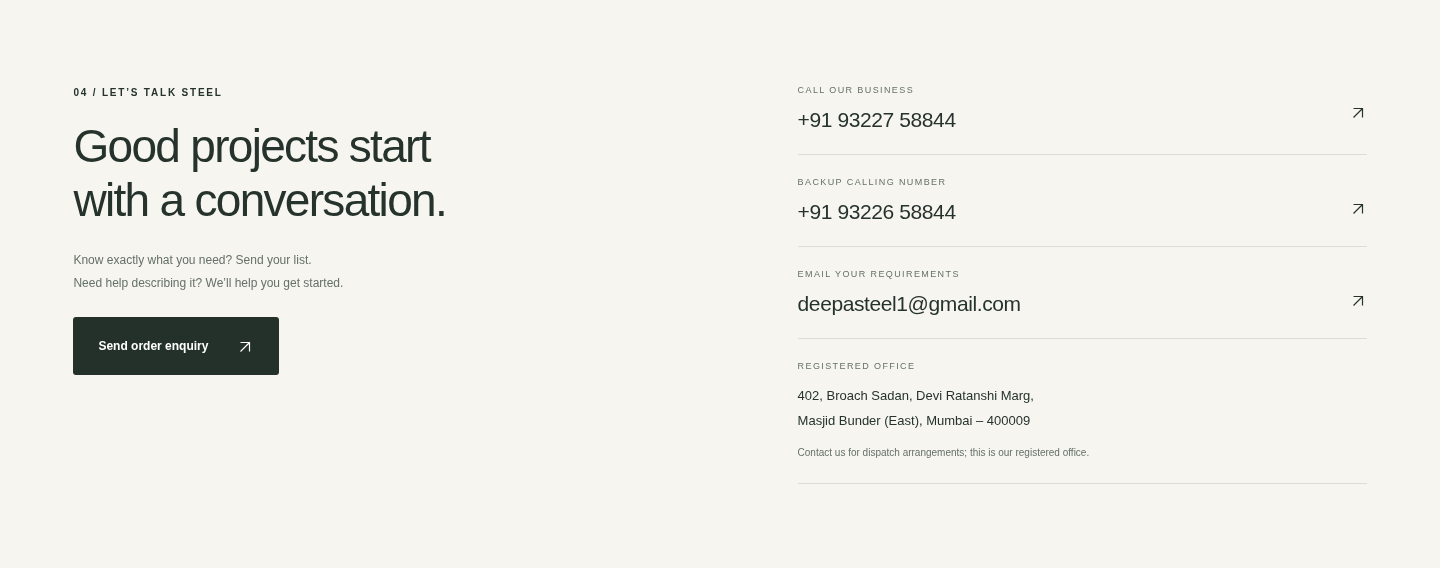
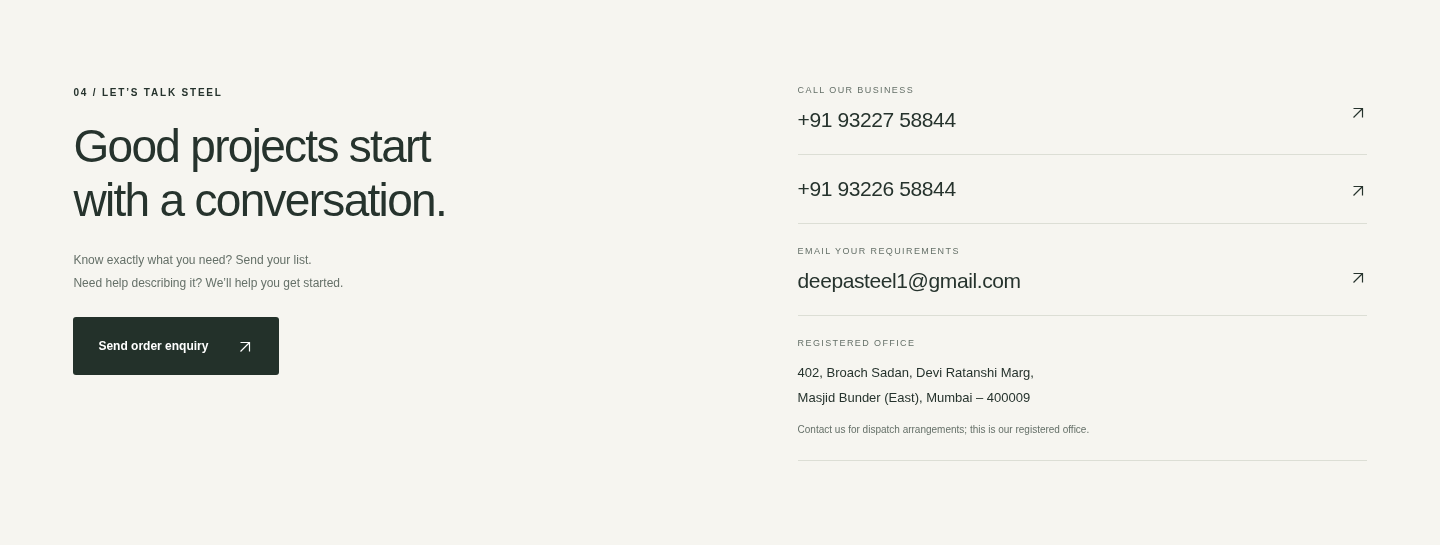
Present both phone numbers as business contacts without backup labels

diff --git a/preview/Deepa-Steel-Preview.html b/preview/Deepa-Steel-Preview.html
@@ -23,6 +23,8 @@ dialog{border:1px solid var(--line);border-radius:8px;background:var(--paper);co
 
 .arrow-icon{display:inline-block;vertical-align:middle;flex-shrink:0}.trust-strip>div>span .arrow-icon{width:26px;height:26px}.announcement .arrow-icon{width:11px;height:11px}.dialog-header{position:sticky;top:0;z-index:3;background:var(--paper)}
 
+.contact-details>a.business-phone-secondary .contact-arrow{top:22px}
+
 .review-preview-banner{padding:12px 5%;background:#fff0c3;color:#26332d;font:13px/1.6 Arial,sans-serif;text-align:center}.review-preview-banner strong{margin-right:8px}.preview-dialog-note{font:11px/1.5 Arial,sans-serif;margin:8px 0 0;color:#65542e}.header{position:relative}@media(max-width:850px){#navigation{top:100%}}</style>
   
 </head>
@@ -49,15 +51,15 @@ dialog{border:1px solid var(--line);border-radius:8px;background:var(--paper);co
     <section class="about-section section" id="about"><div class="about-art" aria-hidden="true"><div class="about-ds">ds</div><span>MUMBAI · INDIA</span><div class="about-line"></div><p>THE MATERIAL BEHIND<br>YOUR NEXT MILESTONE.</p></div><div class="about-copy"><p class="eyebrow">02 / MEET DEEPA STEEL</p><h2>Your requirements.<br>Our commitment.</h2><p>Based in Mumbai, Deepa Steel supplies iron and steel to builders and industrial developers across India.</p><p>We purchase ready-made material directly from manufacturers against customer requirements and arrange transport. Our business owners prepare quotations, giving you a direct conversation about your order.</p><div class="about-detail"><span>One order, a complete requirement.</span><p>Combine structural sections, plates, bars and pipes to meet the minimum order quantity.</p></div><a class="text-link" href="#contact">Let’s talk about your project <span aria-hidden="true"><svg class="arrow-icon" viewBox="0 0 24 24" width="18" height="18" fill="none" stroke="currentColor" stroke-width="1.6" aria-hidden="true"><path d="M6 18 18 6M6 6h12v12"/></svg></span></a></div></section>
     <section class="section order-section" id="how-to-order"><div class="section-heading"><div><p class="eyebrow">03 / HOW TO ORDER</p><h2>From requirement<br>to a clear quotation.</h2></div><p>A straightforward conversation.<br>A quotation prepared for your project.</p></div><div class="steps"><article><span class="step-number">01</span><h3>Build your enquiry</h3><p>Add your products, sizes and quantities. Include your delivery location and any special requirements.</p></article><article><span class="step-number">02</span><h3>Review & send</h3><p>Check your list, then send it to us on WhatsApp. Attach drawings or a material list in the conversation.</p></article><article><span class="step-number">03</span><h3>Receive your quotation</h3><p>An owner confirms material availability, pricing, transport charges and expected delivery timing.</p></article><article><span class="step-number">04</span><h3>Confirm your order</h3><p>Agree on the quotation and payment terms with us. An enquiry becomes an order only after business acceptance.</p></article></div><div class="delivery-note"><span class="delivery-icon" aria-hidden="true"><svg class="arrow-icon" viewBox="0 0 24 24" width="18" height="18" fill="none" stroke="currentColor" stroke-width="1.6" aria-hidden="true"><path d="M6 18 18 6M6 6h12v12"/></svg></span><div><h3>A little planning. A smoother delivery.</h3><p>Minimum customer order: <strong>10 tonnes</strong> for truck dispatch. <strong>40 tonnes</strong> for tailor dispatch. Different products can be combined. Transport charges and timing are confirmed with your quotation.</p></div><button class="button button-outline" data-enquire>Start your enquiry <span aria-hidden="true"><svg class="arrow-icon" viewBox="0 0 24 24" width="18" height="18" fill="none" stroke="currentColor" stroke-width="1.6" aria-hidden="true"><path d="M6 18 18 6M6 6h12v12"/></svg></span></button></div></section>
     <section class="project-banner"><div><p class="eyebrow">BUILDING A LONGER-TERM RELATIONSHIP</p><h2>One project today.<br>Your next one, too.</h2><p>Planning a larger order or a series of project requirements?<br>Share your material list and preferred schedule with our team.</p></div><button class="button button-gold" data-enquire data-purpose="Repeat / project supply">Discuss your project <span aria-hidden="true"><svg class="arrow-icon" viewBox="0 0 24 24" width="18" height="18" fill="none" stroke="currentColor" stroke-width="1.6" aria-hidden="true"><path d="M6 18 18 6M6 6h12v12"/></svg></span></button></section>
-    <section class="section contact-section" id="contact"><div><p class="eyebrow">04 / LET’S TALK STEEL</p><h2>Good projects start<br>with a conversation.</h2><p>Know exactly what you need? Send your list.<br>Need help describing it? We’ll help you get started.</p><button class="button button-dark" data-enquire>Send order enquiry <span aria-hidden="true"><svg class="arrow-icon" viewBox="0 0 24 24" width="18" height="18" fill="none" stroke="currentColor" stroke-width="1.6" aria-hidden="true"><path d="M6 18 18 6M6 6h12v12"/></svg></span></button></div><div class="contact-details"><a href="tel:+919322758844"><span>CALL OUR BUSINESS</span><strong>+91 93227 58844</strong><span class="contact-arrow" aria-hidden="true"><svg class="arrow-icon" viewBox="0 0 24 24" width="18" height="18" fill="none" stroke="currentColor" stroke-width="1.6" aria-hidden="true"><path d="M6 18 18 6M6 6h12v12"/></svg></span></a><a href="tel:+919322658844"><span>BACKUP CALLING NUMBER</span><strong>+91 93226 58844</strong><span class="contact-arrow" aria-hidden="true"><svg class="arrow-icon" viewBox="0 0 24 24" width="18" height="18" fill="none" stroke="currentColor" stroke-width="1.6" aria-hidden="true"><path d="M6 18 18 6M6 6h12v12"/></svg></span></a><a href="mailto:deepasteel1@gmail.com"><span>EMAIL YOUR REQUIREMENTS</span><strong>deepasteel1@gmail.com</strong><span class="contact-arrow" aria-hidden="true"><svg class="arrow-icon" viewBox="0 0 24 24" width="18" height="18" fill="none" stroke="currentColor" stroke-width="1.6" aria-hidden="true"><path d="M6 18 18 6M6 6h12v12"/></svg></span></a><div><span>REGISTERED OFFICE</span><p>402, Broach Sadan, Devi Ratanshi Marg,<br>Masjid Bunder (East), Mumbai – 400009</p><small>Contact us for dispatch arrangements; this is our registered office.</small></div></div></section>
+    <section class="section contact-section" id="contact"><div><p class="eyebrow">04 / LET’S TALK STEEL</p><h2>Good projects start<br>with a conversation.</h2><p>Know exactly what you need? Send your list.<br>Need help describing it? We’ll help you get started.</p><button class="button button-dark" data-enquire>Send order enquiry <span aria-hidden="true"><svg class="arrow-icon" viewBox="0 0 24 24" width="18" height="18" fill="none" stroke="currentColor" stroke-width="1.6" aria-hidden="true"><path d="M6 18 18 6M6 6h12v12"/></svg></span></button></div><div class="contact-details"><a href="tel:+919322758844"><span>CALL OUR BUSINESS</span><strong>+91 93227 58844</strong><span class="contact-arrow" aria-hidden="true"><svg class="arrow-icon" viewBox="0 0 24 24" width="18" height="18" fill="none" stroke="currentColor" stroke-width="1.6" aria-hidden="true"><path d="M6 18 18 6M6 6h12v12"/></svg></span></a><a class="business-phone-secondary" href="tel:+919322658844" aria-label="Call Deepa Steel on +91 9322658844"><strong>+91 93226 58844</strong><span class="contact-arrow" aria-hidden="true"><svg class="arrow-icon" viewBox="0 0 24 24" width="18" height="18" fill="none" stroke="currentColor" stroke-width="1.6" aria-hidden="true"><path d="M6 18 18 6M6 6h12v12"/></svg></span></a><a href="mailto:deepasteel1@gmail.com"><span>EMAIL YOUR REQUIREMENTS</span><strong>deepasteel1@gmail.com</strong><span class="contact-arrow" aria-hidden="true"><svg class="arrow-icon" viewBox="0 0 24 24" width="18" height="18" fill="none" stroke="currentColor" stroke-width="1.6" aria-hidden="true"><path d="M6 18 18 6M6 6h12v12"/></svg></span></a><div><span>REGISTERED OFFICE</span><p>402, Broach Sadan, Devi Ratanshi Marg,<br>Masjid Bunder (East), Mumbai – 400009</p><small>Contact us for dispatch arrangements; this is our registered office.</small></div></div></section>
   </main>
   <footer><div class="footer-main"><a class="brand" href="#home"><span class="brand-mark" aria-hidden="true">ds</span><span class="brand-name">DEEPA STEEL<small>IRON & STEEL SUPPLIERS</small></span></a><p>Supplying the material.<br>Supporting what comes next.</p><a href="#home" class="back-top">Back to top <span aria-hidden="true">↑</span></a></div><div class="footer-bottom"><span>© <span id="year"></span> Deepa Steel. All rights reserved.</span><span>Iron & steel supply · Across India</span><button id="privacy-open">Privacy & enquiries</button></div></footer>
-  <noscript><div class="noscript">To prepare an enquiry, enable JavaScript. You can also call <a href="tel:+919322758844">9322758844</a> or <a href="tel:+919322658844">9322658844 (backup)</a>, or email <a href="mailto:deepasteel1@gmail.com">deepasteel1@gmail.com</a>.</div></noscript>
-  <dialog id="enquiry-dialog" aria-labelledby="enquiry-title"><div class="dialog-header"><div><p class="eyebrow">LET’S GET YOUR PROJECT MOVING</p><h2 id="enquiry-title">Your steel enquiry</h2></div><button class="icon-button" id="enquiry-close" aria-label="Close enquiry">×</button></div><ol class="wizard-progress" aria-label="Enquiry progress"><li data-step="0">1 <span>Materials</span></li><li data-step="1">2 <span>Your details</span></li><li data-step="2">3 <span>Review & send</span></li></ol><div id="wizard-content"></div><div class="dialog-bottom"><span>Questions? <a href="tel:+919322758844">Call 9322758844</a><br>Backup: <a href="tel:+919322658844">9322658844</a></span><span>Quotation enquiry · No payment required</span></div></dialog>
-  <dialog id="privacy-dialog" aria-labelledby="privacy-title"><div class="dialog-header"><h2 id="privacy-title">Privacy & enquiries</h2><button class="icon-button" id="privacy-close" aria-label="Close privacy information">×</button></div><div class="privacy-content"><p>Your enquiry details stay in this page’s memory until you refresh or leave. This website does not store enquiries in a database, use advertising trackers, or upload your selected files.</p><p>When you choose WhatsApp, the prepared text is passed to WhatsApp. You must press Send in WhatsApp to send it to Deepa Steel. Selected files must be attached separately there. WhatsApp handles that communication under its own terms and privacy policy.</p><p>Copy and download options let you keep a copy on your own device. The reference identifies your draft; it is not proof of receipt, an accepted order, or a payment.</p><p>Share only information necessary for your quotation. For questions about information you have sent to our business, contact <a href="mailto:deepasteel1@gmail.com">deepasteel1@gmail.com</a> or call <a href="tel:+919322758844">9322758844</a> or <a href="tel:+919322658844">9322658844 (backup)</a>.</p></div></dialog>
+  <noscript><div class="noscript">To prepare an enquiry, enable JavaScript. You can also call <a href="tel:+919322758844">9322758844</a> or <a href="tel:+919322658844">9322658844</a>, or email <a href="mailto:deepasteel1@gmail.com">deepasteel1@gmail.com</a>.</div></noscript>
+  <dialog id="enquiry-dialog" aria-labelledby="enquiry-title"><div class="dialog-header"><div><p class="eyebrow">LET’S GET YOUR PROJECT MOVING</p><h2 id="enquiry-title">Your steel enquiry</h2></div><button class="icon-button" id="enquiry-close" aria-label="Close enquiry">×</button></div><ol class="wizard-progress" aria-label="Enquiry progress"><li data-step="0">1 <span>Materials</span></li><li data-step="1">2 <span>Your details</span></li><li data-step="2">3 <span>Review & send</span></li></ol><div id="wizard-content"></div><div class="dialog-bottom"><span>Questions? <a href="tel:+919322758844">Call 9322758844</a><br><a href="tel:+919322658844">Call 9322658844</a></span><span>Quotation enquiry · No payment required</span></div></dialog>
+  <dialog id="privacy-dialog" aria-labelledby="privacy-title"><div class="dialog-header"><h2 id="privacy-title">Privacy & enquiries</h2><button class="icon-button" id="privacy-close" aria-label="Close privacy information">×</button></div><div class="privacy-content"><p>Your enquiry details stay in this page’s memory until you refresh or leave. This website does not store enquiries in a database, use advertising trackers, or upload your selected files.</p><p>When you choose WhatsApp, the prepared text is passed to WhatsApp. You must press Send in WhatsApp to send it to Deepa Steel. Selected files must be attached separately there. WhatsApp handles that communication under its own terms and privacy policy.</p><p>Copy and download options let you keep a copy on your own device. The reference identifies your draft; it is not proof of receipt, an accepted order, or a payment.</p><p>Share only information necessary for your quotation. For questions about information you have sent to our business, contact <a href="mailto:deepasteel1@gmail.com">deepasteel1@gmail.com</a> or call <a href="tel:+919322758844">9322758844</a> or <a href="tel:+919322658844">9322658844</a>.</p></div></dialog>
 <script>(function(){
 'use strict';
-const BUSINESS = Object.freeze({ name: 'Deepa Steel', phone: '919322758844', backupPhone: '919322658844', email: 'deepasteel1@gmail.com' });
+const BUSINESS = Object.freeze({ name: 'Deepa Steel', phone: '919322758844', secondPhone: '919322658844', email: 'deepasteel1@gmail.com' });
 const CATALOG = [
   { id: 'structural', name: 'Structural sections', short: 'Sections for your project requirements, sourced to the specification you share.', spec: 'ISA · ISMC · ISMB · NPB · UB · UC · WPB' },
   { id: 'plates', name: 'Mild steel plates', short: 'Specify your thickness, dimensions and quantity. We’ll take it from there.', spec: 'Thickness: 3–50 mm' },
@@ -362,7 +364,7 @@ function renderReview() {
   const message = buildMessage(state);
   const handoff = whatsappHandoff(message, state.reference);
   const weight = orderWeight(state.items);
-  $('#wizard-content').innerHTML = `<div class="review-heading"><h3>Check your enquiry before sending</h3><span class="draft-ref">${esc(state.reference)} · draft reference</span></div><div class="review-grid"><section class="review-box" aria-label="Review materials"><h4>Your material list</h4>${state.items.map((item, index) => itemCard(item, index, false)).join('')}<p><strong>${weight.needsEstimate ? `Estimated total: ${esc(d.estimatedTonnes)} tonnes` : `Listed total: ${formatWeight(weight.knownTonnes)} tonnes`}</strong></p>${weight.needsEstimate ? '<p>Customer estimate; weight will be verified by the owner.</p>' : ''}<button class="plain-button" id="review-materials">Edit materials</button></section><section class="review-box" aria-label="Review contact and delivery"><h4>Contact & delivery</h4><p><strong>${esc(d.name)}</strong>${d.company ? `<br>${esc(d.company)}` : ''}<br>${esc(d.reply)}: ${esc(d.reply === 'Email' ? d.email : d.phone)}</p><p>Delivery: ${esc(d.location)}${d.pincode ? `, ${esc(d.pincode)}` : ''}<br>Dispatch: ${esc(d.transport)}<br>${esc(d.purpose)}</p>${d.date ? `<p>Preferred date: ${esc(d.date)} (to be confirmed)</p>` : ''}${d.notes ? `<p>Special requirements: ${esc(d.notes)}</p>` : ''}${state.files.length ? `<p><strong>Attach separately in WhatsApp:</strong><br>${state.files.map(file => esc(file.name)).join('<br>')}</p>` : ''}<button class="plain-button" id="review-details">Edit your details</button></section></div><div class="notice"><strong>One more step: press Send in WhatsApp.</strong>This website prepares your enquiry. Opening WhatsApp does not send it. An owner will confirm pricing, availability, freight, payment terms and delivery timing. An enquiry is not an accepted order.${state.files.length ? ' Remember to attach your selected files in the WhatsApp conversation.' : ''}</div>${handoff.needsCopy ? '<div class="notice"><strong>Your enquiry is longer than our mobile link limit.</strong>First copy the full enquiry below. Then open WhatsApp, paste it into the conversation and press Send. The WhatsApp link contains only your draft reference and introduction.</div>' : ''}<div class="handoff-actions"><a class="button button-gold" id="whatsapp-send" href="${esc(handoff.url)}" target="_blank" rel="noopener noreferrer" aria-label="Open WhatsApp to send your enquiry">Open WhatsApp <span aria-hidden="true"><svg class="arrow-icon" viewBox="0 0 24 24" width="18" height="18" fill="none" stroke="currentColor" stroke-width="1.6" aria-hidden="true"><path d="M6 18 18 6M6 6h12v12"/></svg></span></a><button class="button button-outline" id="copy-enquiry">Copy ${handoff.needsCopy ? 'full enquiry' : 'enquiry'}</button><button class="button button-outline" id="download-enquiry">Download enquiry</button></div><p class="status-message" role="status" id="handoff-status"></p><p class="handoff-note">If WhatsApp does not open, copy or download your enquiry and email it to <a href="mailto:${BUSINESS.email}">${BUSINESS.email}</a>, or call <a href="tel:+${BUSINESS.phone}">9322758844</a>. Backup calling number: <a href="tel:+${BUSINESS.backupPhone}">9322658844</a>. To avoid duplicates, send through one channel and reuse this draft reference when following up.</p><details class="review-message"><summary>View the complete message or copy it manually</summary><label class="field"><span>Enquiry message</span><textarea id="message-text" readonly>${esc(message)}</textarea></label></details><div class="wizard-actions"><button class="plain-button" id="review-back">← Back to your details</button><p class="form-help">No payment is collected on this website.</p></div>`;
+  $('#wizard-content').innerHTML = `<div class="review-heading"><h3>Check your enquiry before sending</h3><span class="draft-ref">${esc(state.reference)} · draft reference</span></div><div class="review-grid"><section class="review-box" aria-label="Review materials"><h4>Your material list</h4>${state.items.map((item, index) => itemCard(item, index, false)).join('')}<p><strong>${weight.needsEstimate ? `Estimated total: ${esc(d.estimatedTonnes)} tonnes` : `Listed total: ${formatWeight(weight.knownTonnes)} tonnes`}</strong></p>${weight.needsEstimate ? '<p>Customer estimate; weight will be verified by the owner.</p>' : ''}<button class="plain-button" id="review-materials">Edit materials</button></section><section class="review-box" aria-label="Review contact and delivery"><h4>Contact & delivery</h4><p><strong>${esc(d.name)}</strong>${d.company ? `<br>${esc(d.company)}` : ''}<br>${esc(d.reply)}: ${esc(d.reply === 'Email' ? d.email : d.phone)}</p><p>Delivery: ${esc(d.location)}${d.pincode ? `, ${esc(d.pincode)}` : ''}<br>Dispatch: ${esc(d.transport)}<br>${esc(d.purpose)}</p>${d.date ? `<p>Preferred date: ${esc(d.date)} (to be confirmed)</p>` : ''}${d.notes ? `<p>Special requirements: ${esc(d.notes)}</p>` : ''}${state.files.length ? `<p><strong>Attach separately in WhatsApp:</strong><br>${state.files.map(file => esc(file.name)).join('<br>')}</p>` : ''}<button class="plain-button" id="review-details">Edit your details</button></section></div><div class="notice"><strong>One more step: press Send in WhatsApp.</strong>This website prepares your enquiry. Opening WhatsApp does not send it. An owner will confirm pricing, availability, freight, payment terms and delivery timing. An enquiry is not an accepted order.${state.files.length ? ' Remember to attach your selected files in the WhatsApp conversation.' : ''}</div>${handoff.needsCopy ? '<div class="notice"><strong>Your enquiry is longer than our mobile link limit.</strong>First copy the full enquiry below. Then open WhatsApp, paste it into the conversation and press Send. The WhatsApp link contains only your draft reference and introduction.</div>' : ''}<div class="handoff-actions"><a class="button button-gold" id="whatsapp-send" href="${esc(handoff.url)}" target="_blank" rel="noopener noreferrer" aria-label="Open WhatsApp to send your enquiry">Open WhatsApp <span aria-hidden="true"><svg class="arrow-icon" viewBox="0 0 24 24" width="18" height="18" fill="none" stroke="currentColor" stroke-width="1.6" aria-hidden="true"><path d="M6 18 18 6M6 6h12v12"/></svg></span></a><button class="button button-outline" id="copy-enquiry">Copy ${handoff.needsCopy ? 'full enquiry' : 'enquiry'}</button><button class="button button-outline" id="download-enquiry">Download enquiry</button></div><p class="status-message" role="status" id="handoff-status"></p><p class="handoff-note">If WhatsApp does not open, copy or download your enquiry and email it to <a href="mailto:${BUSINESS.email}">${BUSINESS.email}</a>, or call <a href="tel:+${BUSINESS.phone}">9322758844</a> or <a href="tel:+${BUSINESS.secondPhone}">9322658844</a>. To avoid duplicates, send through one channel and reuse this draft reference when following up.</p><details class="review-message"><summary>View the complete message or copy it manually</summary><label class="field"><span>Enquiry message</span><textarea id="message-text" readonly>${esc(message)}</textarea></label></details><div class="wizard-actions"><button class="plain-button" id="review-back">← Back to your details</button><p class="form-help">No payment is collected on this website.</p></div>`;
   $('#review-materials').addEventListener('click', () => { state.step = 0; render(); });
   for (const selector of ['#review-details', '#review-back']) $(selector).addEventListener('click', () => { state.step = 1; render(); });
   $('#whatsapp-send').addEventListener('click', event => {

diff --git a/preview/README.md b/preview/README.md
@@ -46,4 +46,4 @@ The standalone sample passed nine Chromium checks for catalogue rendering, multi
 
 ## Business calling numbers
 
-The contact section shows primary number **9322758844**, followed by backup calling number **9322658844**. Both are click-to-call links in the production website. The original primary number remains the WhatsApp enquiry destination. Review-copy contact links remain disabled.
+The contact section shows **9322758844** and **9322658844** as equal business calling numbers, one below the other, without a separate heading above the second number. Both are click-to-call links in the production website. WhatsApp enquiries go to **9322758844**. Review-copy contact links remain disabled.

diff --git a/README.md b/README.md
@@ -29,6 +29,6 @@ These are actual screenshots of the implemented website, captured in desktop Chr
 The screenshots show the catalogue, company information, ordering guidance and contact sections. This branch publishes the two images for review; it does not deploy the website.
 ## Updated business contacts
 
-Primary calls / WhatsApp: **9322758844**. Backup calling number, shown below the primary: **9322658844**.
+Business calling numbers: **9322758844** and **9322658844**, shown one below the other with no separate heading for the second number. WhatsApp enquiries go to **9322758844**.
 
 [Desktop contact section](screenshots/contact-desktop.png) · [Mobile contact section](screenshots/contact-mobile.png)
